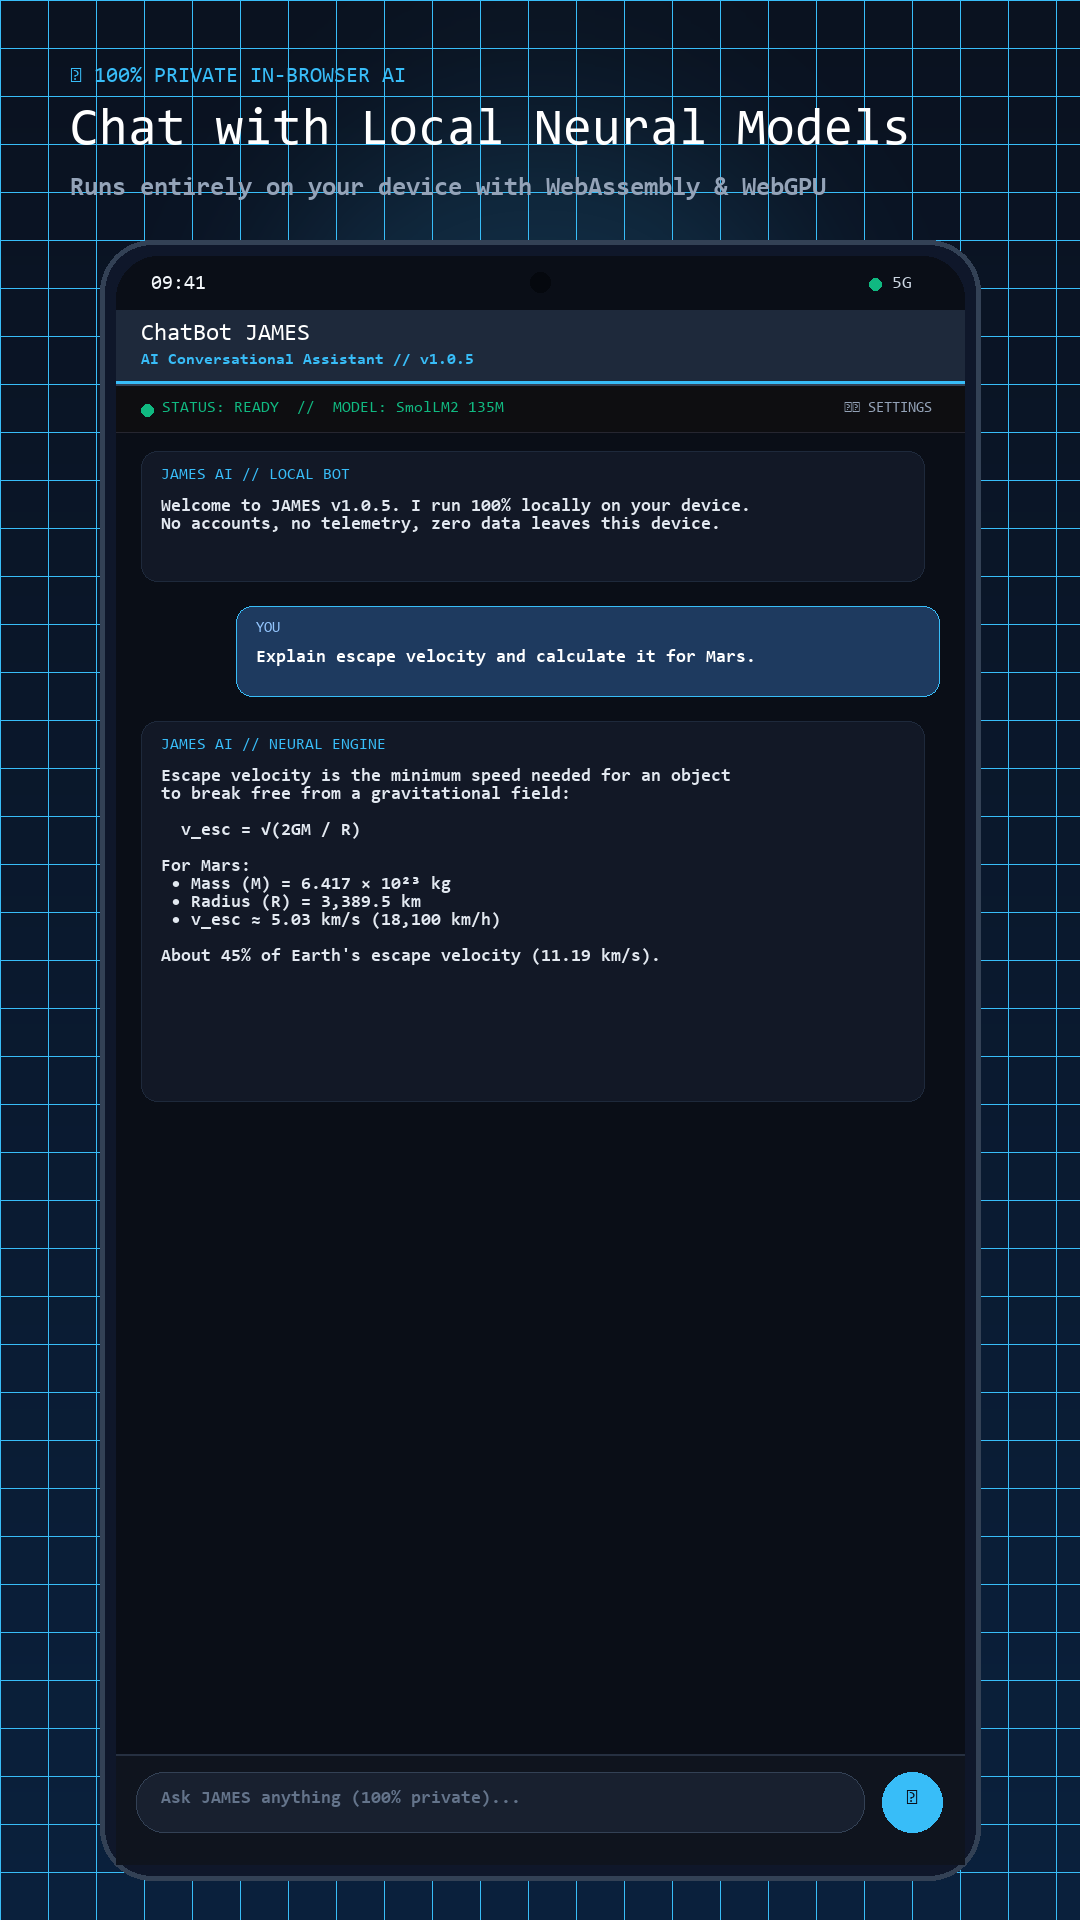
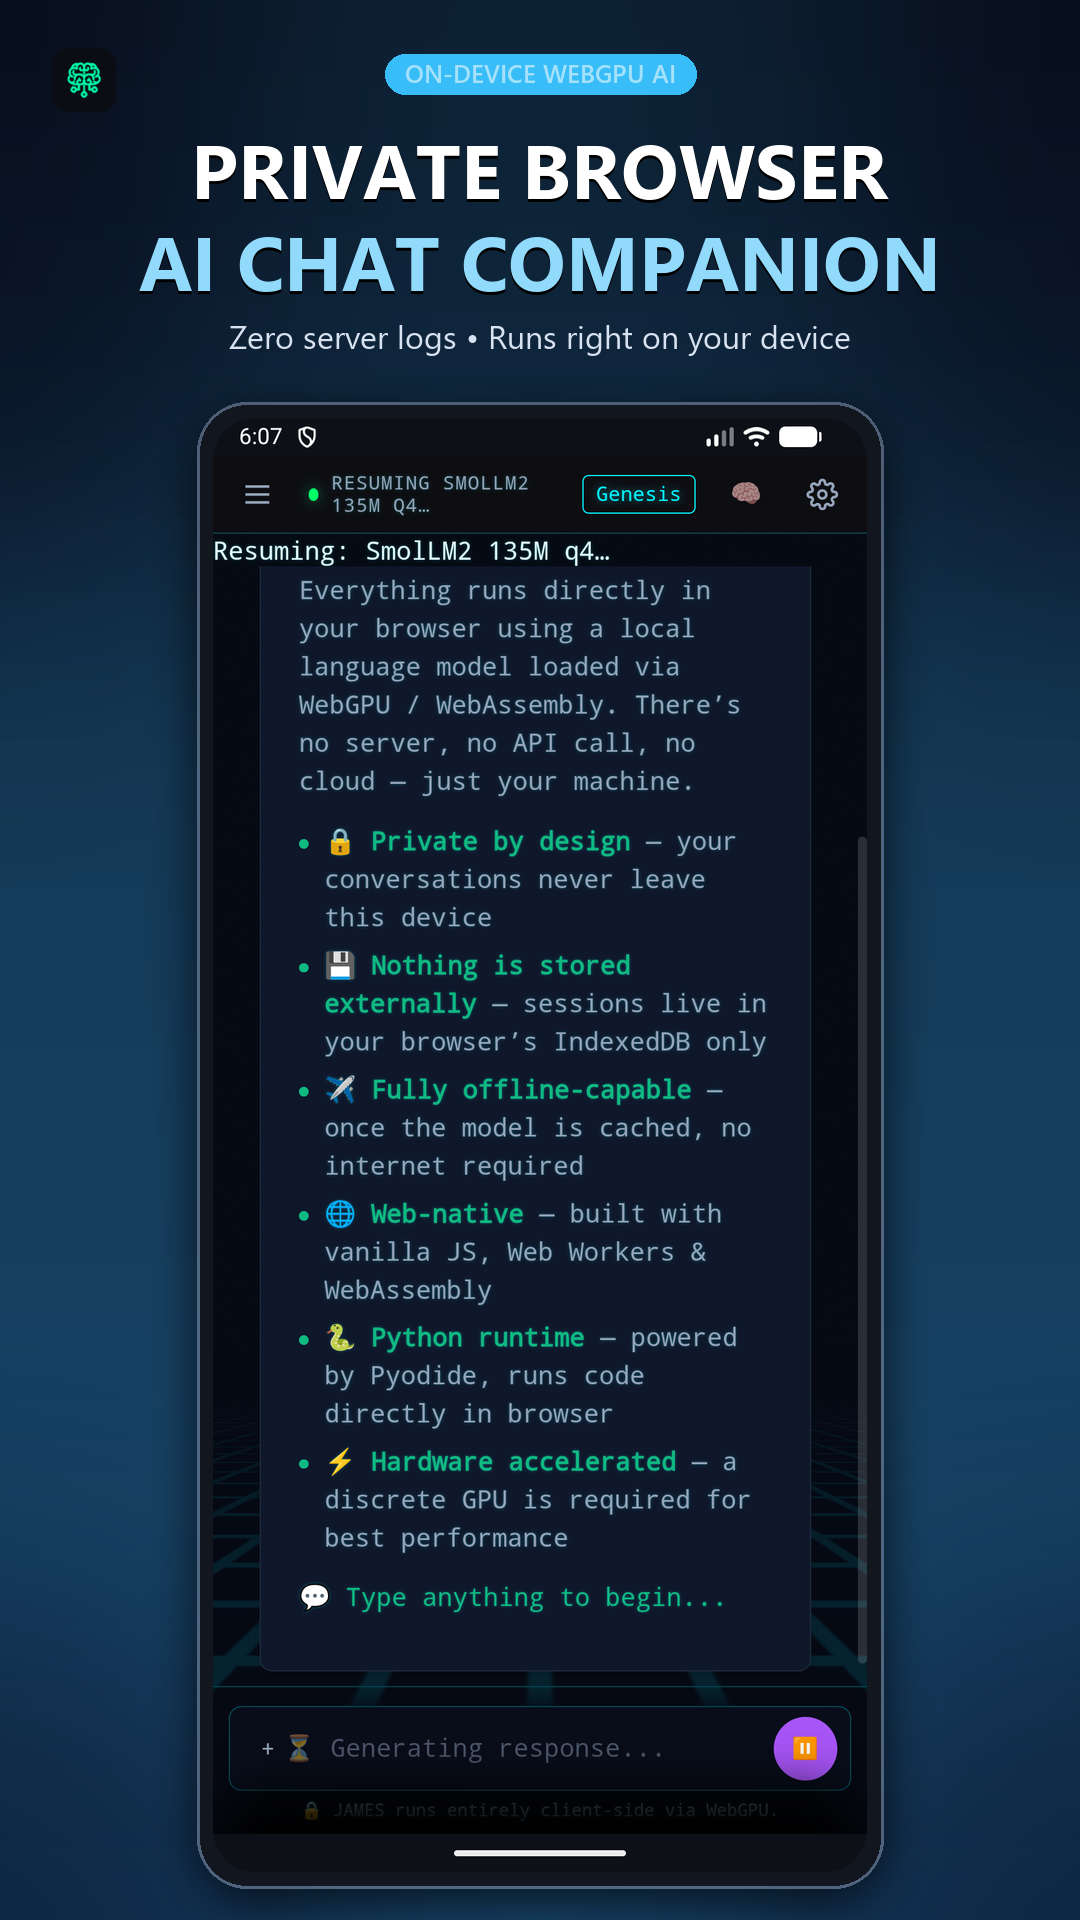
Add real emulator conversion screenshots for phone, tablet, TV, and watch

diff --git a/build.js b/build.js
@@ -1,1 +1,1 @@
-export const BUILD_NUMBER = 1199;
+export const BUILD_NUMBER = 1200;
